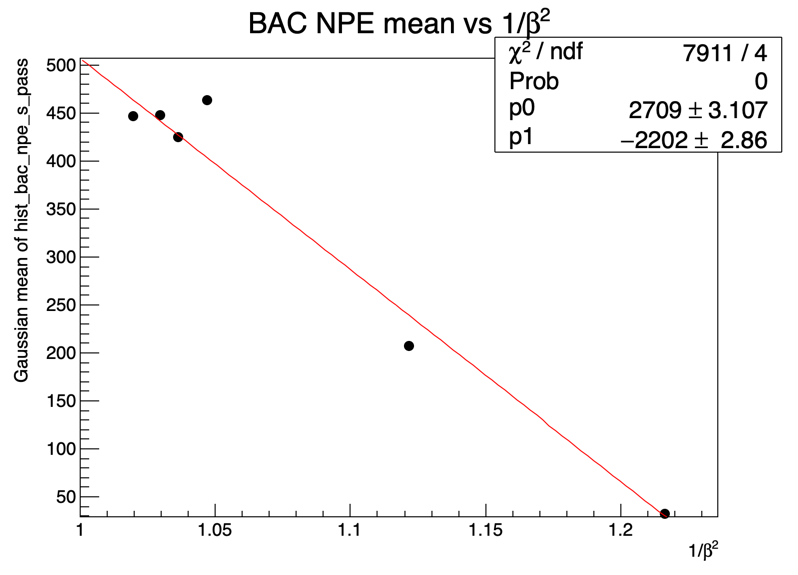
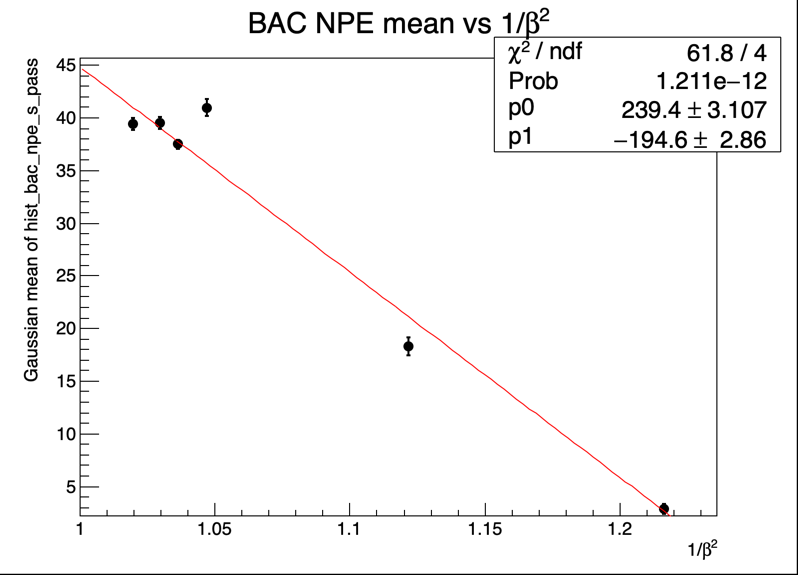
bac

diff --git a/JPARC2025Nov/beta_compare.cc b/JPARC2025Nov/beta_compare.cc
@@ -15,6 +15,8 @@
 #include "TStyle.h"
 #include "TMath.h"
 
+
+const double npe_factor = 37.5266 / 424.576;
 struct RunInfo {
   int run;
   double mom; // MeV/c
@@ -58,21 +60,17 @@ void beta_compare(){
       continue;
     }
 
-    // fit을 위해 clone
     TH1* hfit = dynamic_cast<TH1*>(h->Clone(Form("h_run%d", r.run)));
     hfit->SetDirectory(0);
     fin->Close();
 
-    // peak 자동 탐색
     int maxBin = hfit->GetMaximumBin();
     double peakX = hfit->GetBinCenter(maxBin);
     double rms   = hfit->GetRMS();
 
-    // 너무 넓거나 좁지 않게 fit 범위 설정
     double fitMin = peakX - 1.0 * rms;
     double fitMax = peakX + 1.0 * rms;
 
-    // 보호장치
     if (rms <= 0) {
       fitMin = peakX - 5.0;
       fitMax = peakX + 5.0;
@@ -84,13 +82,11 @@ void beta_compare(){
     TF1* fgaus = new TF1(Form("fgaus_%d", r.run), "gaus", fitMin, fitMax);
     fgaus->SetParameters(hfit->GetMaximum(), peakX, (rms > 0 ? rms/2.0 : 2.0));
 
-    // 먼저 조용히 fit
     hfit->Fit(fgaus, "RQ0");
 
-    // 첫 fit 결과 기반으로 fit 범위 재조정
     double mean1  = fgaus->GetParameter(1);
     double sigma1 = std::fabs(fgaus->GetParameter(2));
-
+    
     double refitMin = mean1 - 1.5 * sigma1;
     double refitMax = mean1 + 1.5 * sigma1;
 
@@ -113,7 +109,7 @@ void beta_compare(){
               << std::endl;
 
     x.push_back(invbeta2);
-    y.push_back(mean);
+    y.push_back(mean*npe_factor);
     ex.push_back(0.0);
     ey.push_back(meanErr);
   }
